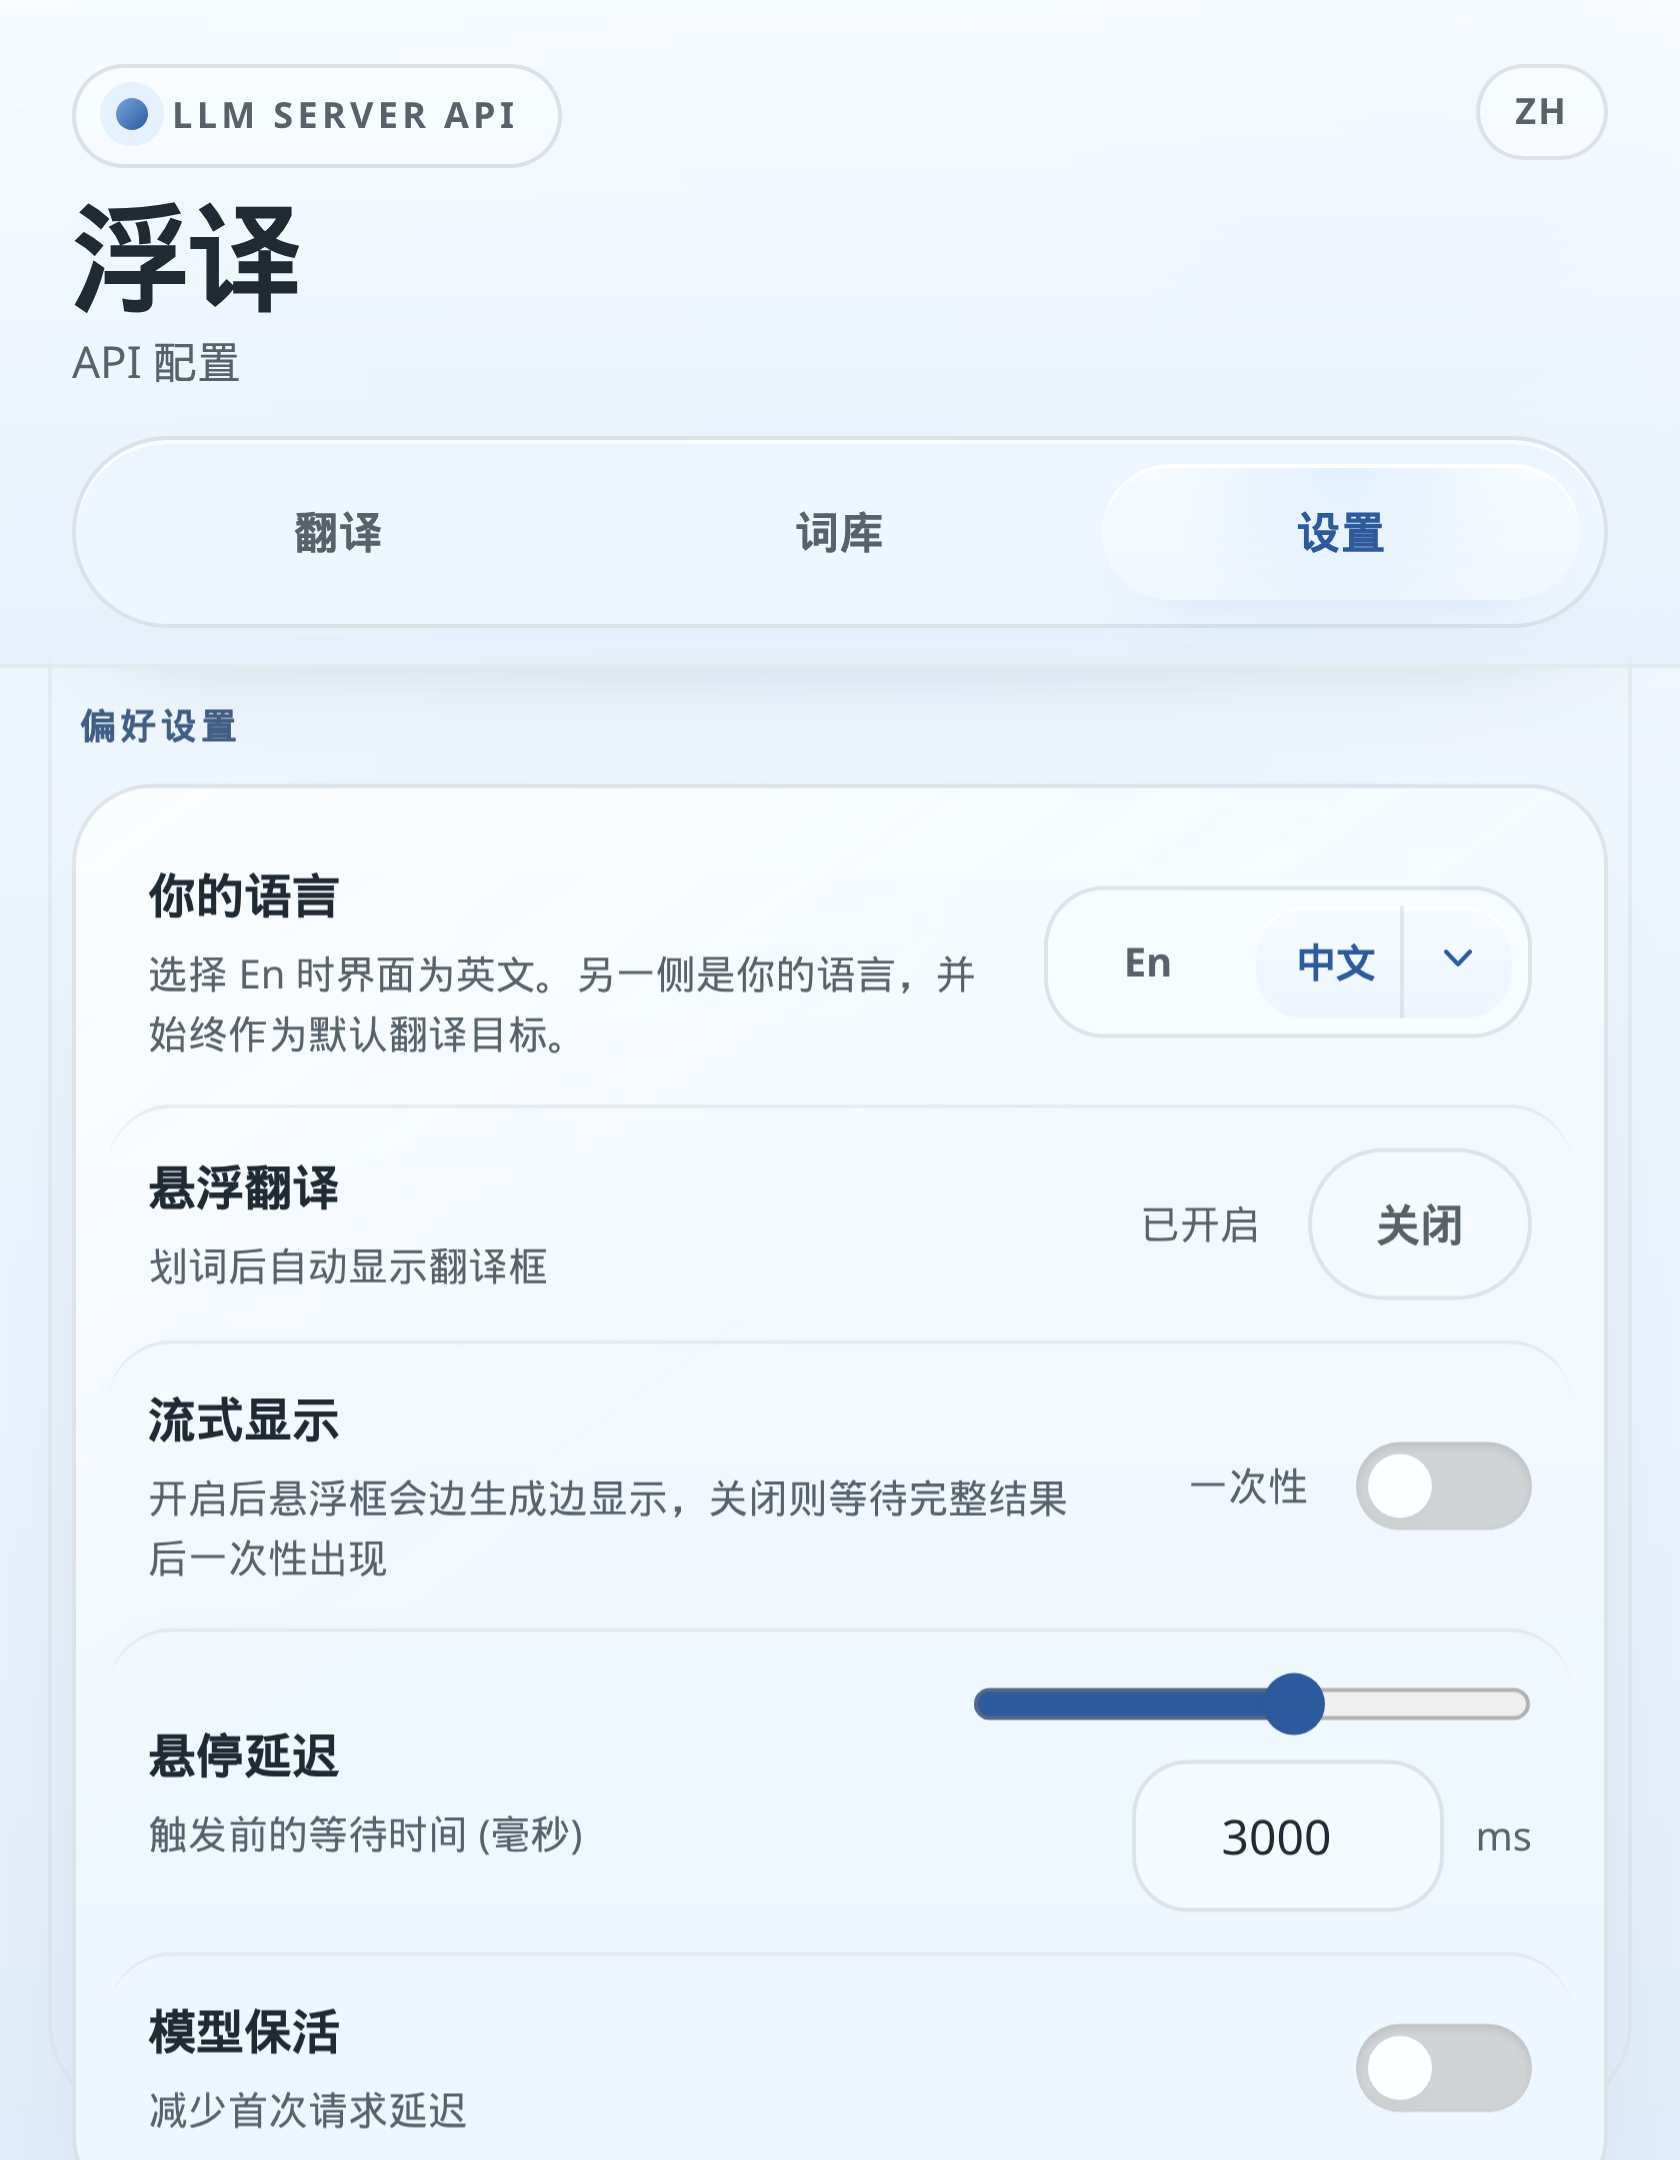
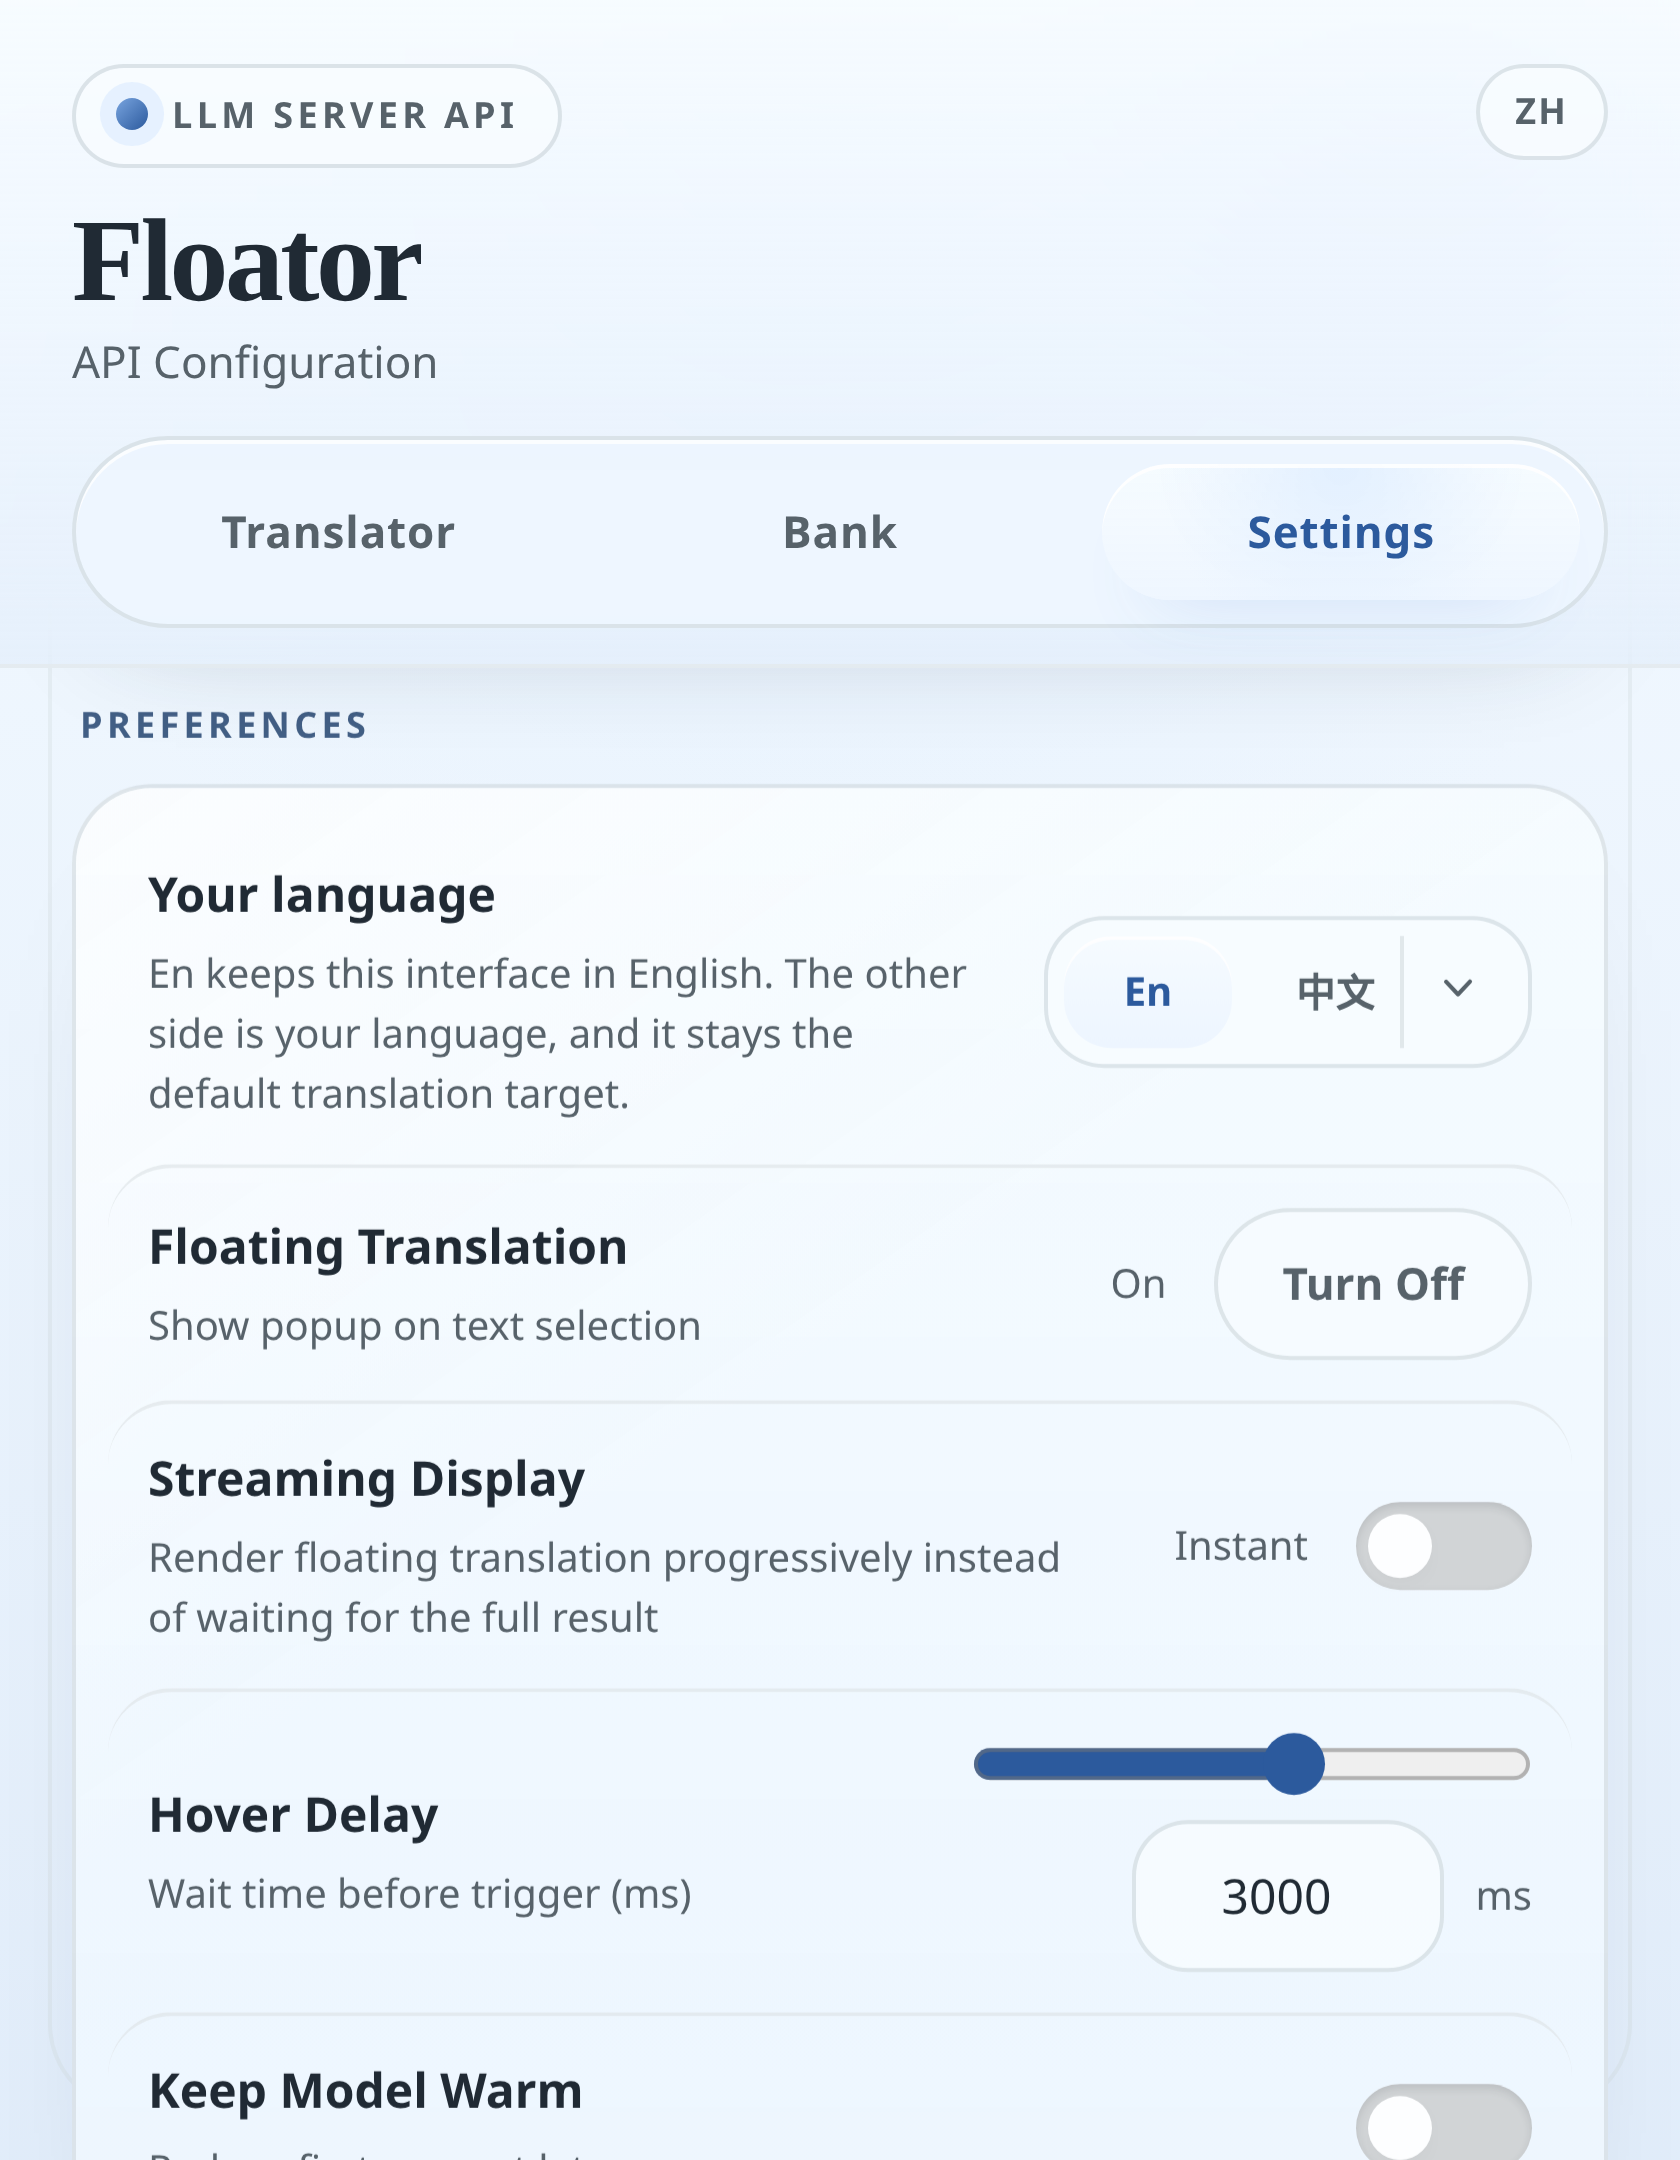
docs: show the English interface in the README screenshots
Select En and recapture the same card, bank, and language-control scenes.

diff --git a/README.md b/README.md
@@ -45,7 +45,7 @@ Floator is for anyone who reads the web in another language and wants the meanin
 
 ![Popup Bank with IPA, part of speech on single words, an English gloss, a Chinese translation, and an add count. The phrase row has no part of speech.](docs/store/screenshots/popup-bank.png)
 
-![Your language control, with En on the left and 中文 on the right](docs/store/screenshots/user-language.png)
+![Your language control with En selected and 中文 on the right](docs/store/screenshots/user-language.png)
 
 ## Install
 
